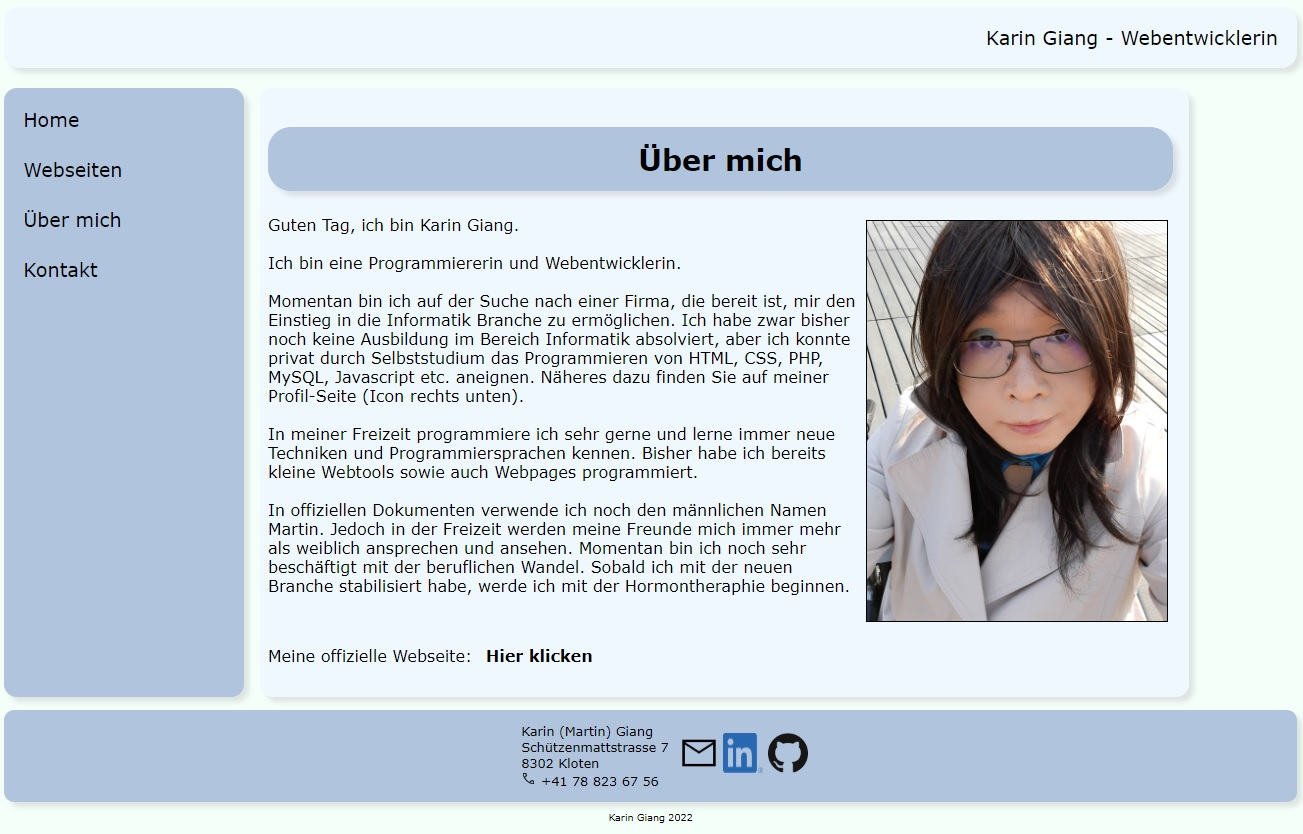
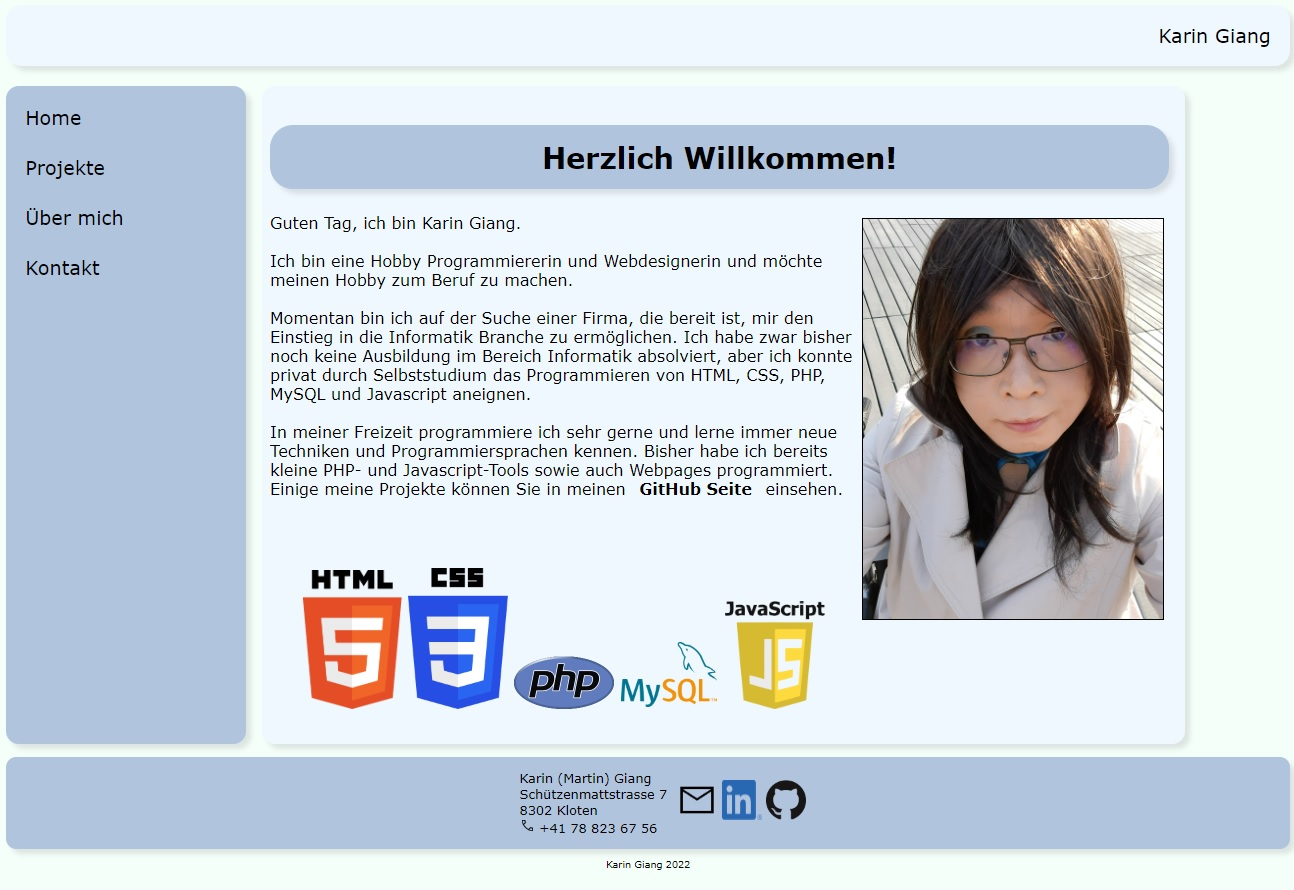
new

diff --git a/css/style.css b/css/style.css
@@ -1,4 +1,8 @@
 @import "navigation.css";
+<<<<<<< HEAD
+@import "websites.css";
+=======
+>>>>>>> 186a99b56ab4f1770793ce823d9b4984131a001e
 @import "contact.css";
 @import "footer.css";
 @import "provisorisch.css";
@@ -21,7 +25,7 @@ body {
 #main {
     position: absolute;
     width: 100%;
-    height: 400%;
+    height: 600%;
     transition: transform 0.5s;
     transform: translate(0, 0);
 }
@@ -54,6 +58,14 @@ body {
 .centerPic {
     text-align: center;
 }
+<<<<<<< HEAD
+.classPic {
+    width: 300px;
+    margin: 1em;
+}
+
+@media (min-width: 640px){
+=======
 
 .classPic {
     width: 300px;
@@ -62,6 +74,7 @@ body {
 }
 
 @media (min-width: 640px) {
+>>>>>>> 186a99b56ab4f1770793ce823d9b4984131a001e
     .classPic {
         float: right;
     }

diff --git a/css/websites.css b/css/websites.css
@@ -1,0 +1,39 @@
+#websitesContents {
+    margin: 1em;
+    display: flex;
+    flex-wrap: wrap;
+    justify-content: center;
+}
+
+.websitesPic {
+    width: 300px;
+    transition: transform 0.5s;
+    box-shadow: 5px 5px 5px rgba(0, 0, 0, 0.1);
+    margin: 1em;
+}
+
+.websitesPic:hover {
+    transform: scale(1.2);
+}
+
+#websitesLogo {
+    width: 20px;
+    height: 20px;
+    transition: transform 0.5s;    
+}
+
+#websitesLogo:hover {
+    transform: scale(1.2);
+}
+
+@media (min-width: 920px){
+    #websitesContents {
+        width: 720px;
+    }
+}
+
+@media (min-width: 1320px){
+    #websitesContents {
+        width: 1020px;
+    }
+}

diff --git a/css/navigation.css b/css/navigation.css
@@ -1,4 +1,4 @@
-#navigation {
+#idNavigation {
     position: sticky;
     top: 0;
     background-color: lightpink;
@@ -8,8 +8,21 @@
     transform: translate(0, 0);
 }
 
+<<<<<<< HEAD
+}
+
+#navigation {
+    display: flex;
+    justify-content: space-between;
+    align-items: center;
+}
+
+.classMenu {
+    display: inline-block;
+=======
 .menuButton {
     display: inline;
     margin: 0.3em;
     padding: 0.3em;
+>>>>>>> 186a99b56ab4f1770793ce823d9b4984131a001e
 }

diff --git a/css/contact.css b/css/contact.css
@@ -6,10 +6,19 @@
 .contactBigIcons {
     width: 60px;
     height: 60px;
+<<<<<<< HEAD
+    margin: 0.3em;
+    transition: transform 0.5s;
+=======
     transition: transform 0.5s;
     margin: 0.3em;
+>>>>>>> 186a99b56ab4f1770793ce823d9b4984131a001e
 }
 
 .contactBigIcons:hover {
     transform: scale(1.2);
+<<<<<<< HEAD
 }
+=======
+}
+>>>>>>> 186a99b56ab4f1770793ce823d9b4984131a001e

diff --git a/old/w2/about.php b/old/w2/about.php
@@ -1,0 +1,24 @@
+<div class="centerPage">
+    <div class="innerPage">
+        <h2>Über mich</h2>
+        <div class="centerPic"><img src="img/karin2.jpg" class="classPic" alt="Karin Giang" title="Karin Giang"></img></div>
+        <p>
+            Guten Tag, ich bin Karin Giang.
+            <br><br>
+            Ich bin eine Programmiererin und Webentwicklerin.
+            <br><br>
+            Momentan bin ich auf der Suche nach einer Firma, die bereit ist, 
+            mir den Einstieg in die Informatik Branche zu ermöglichen.
+            Ich habe zwar bisher noch keine Ausbildung im Bereich Informatik absolviert, 
+            aber ich konnte privat durch Selbststudium das Programmieren von HTML, CSS, PHP, MySQL, Javascript etc. aneignen.
+            Näheres dazu finden Sie auf meiner Profil-Seite (Icon rechts unten).
+            <br><br>
+            In meiner Freizeit programmiere ich sehr gerne und lerne immer neue Techniken und Programmiersprachen kennen.
+            Bisher habe ich bereits kleine Webtools sowie auch Webpages programmiert.    
+            <br><br>
+            In offiziellen Dokumenten verwende ich noch den männlichen Namen Martin.
+            Jedoch in der Freizeit werden meine Freunde mich immer mehr als weiblich ansprechen und ansehen.
+            Momentan bin ich noch sehr beschäftigt mit der beruflichen Wandel. Sobald ich mit der neuen Beruf stabilisiert habe, werde ich mit der Hormontheraphie beginnen.</p>
+        <p>Meine offizielle Webseite: <span id="officalHomepage"><a href="http://www.karingiang.ch" target="_blank">Hier klicken</span></a></p>
+    </div>
+</div>

diff --git a/old/w2/websites.php b/old/w2/websites.php
@@ -5,19 +5,10 @@
         Am Liebsten programmiere ich Webseiten.<br>
         Es ist auch mein Hobby, immer wieder neue Ideen für Webseiten zu entwickeln und diese auf dem Bildschirm zu bringen.<br>
         Alle Codes von meiner Webseiten Vorschlägen sind in meiner <a href="https://github.com/Carranya"><img src="img/icons/github.png" id="websitesLogo"></img></a>-Seite</b> einsehbar.</p>
-<<<<<<< HEAD
-        <div class="centerPage">
-            <div id="websitesContents">
-                <a href="projects/homepage_v1/index.php" target="_blank"><img src="img/websites/homepage_v1.jpg" class="websitesPic"></a>
-                <a href="projects/website_proposal_1/index.php" target="_blank"><img src="img/websites/website_proposal_1.jpg" class="websitesPic"></a>
-                <a href="projects/website_proposal_3/index.php" target="_blank"><img src="img/websites/website_proposal_3.jpg" class="websitesPic"></a>
-            </div>
-=======
         <div class="websitesContent">
             <a href="projects/homepage_v1/index.php" target="_blank"><img src="img/websites/homepage_v1.jpg" class="websitesPic"></a>
             <a href="projects/website_proposal_1/index.php" target="_blank"><img src="img/websites/website_proposal_1.jpg" class="websitesPic"></a>
             <a href="projects/website_proposal_3/index.php" target="_blank"><img src="img/websites/website_proposal_3.jpg" class="websitesPic"></a>
->>>>>>> 186a99b56ab4f1770793ce823d9b4984131a001e
         </div>
     </div>
 </div>

diff --git a/old/w2/contact.php b/old/w2/contact.php
@@ -1,0 +1,20 @@
+<div class="centerPage">
+    <div class="innerPage">
+        <h2>Kontakt</h2>
+        <div class="centerPic"><img src="img/karin.jpg" class="classPic" alt="Karin Giang" title="Karin Giang"></img></div>
+    
+        <p><b>Adresse:</b><br>
+        Karin (Martin) Giang<br>
+        Schützenmattstrasse 7<br>
+        8302 Kloten<br></p>
+        <p><b>Kontaktinformationen:</b><br>
+        <img src="img/icons/phone.png" class="contactSmallIcons">: 078 / 823 67 56<br>
+        <img src="img/icons/mail.png" class="contactSmallIcons">: <u><a href="mailto:m.giang82@gmail.com">m.giang82@gmail.com</a></u><br><br>
+        <a href="https://www.linkedin.com/in/karin-giang-0a6072247" target="_blank"><img src="img/icons/linkedin.png" class="contactBigIcons"></a>
+        <a href="https://github.com/Carranya" target="_blank"><img src="img/icons/github.png" class="contactBigIcons"></a>
+        <p><b>Sonstige Informationen:</b><br>
+        Geburtsdatum:. 15. Februar 1982<br>
+        Zivilstand: verheiratet<br>
+        Nationalität: Schweiz / Heimat: Wängi TG</p>
+    </div>
+</div>

diff --git a/old/w2/home.php b/old/w2/home.php
@@ -1,0 +1,14 @@
+<div class="centerPage">
+    <div class="innerPage">
+        <h1>Website Proposal 2</h1>
+        <h2>Herzlich Willkommen</h2>
+        <p>
+        Diese Webseite dient als Vorschlag für ein Projekt.<br>
+        Es ist schlicht aufgebaut, aber die Menü-Buttons sowie die Navigationsbar sind mit Javascript gesteuert.<br><br>
+
+        Ursprünglich wollte die diese Seite mit Slideeffekt ausstatten.<br>
+        Stattdessen habe ich entschieden, etwas mehr Fancy einzubauen.
+        </p>
+        <p>Meine offizielle Webseite: <span id="officalHomepage"><a href="http://www.karingiang.ch" target="_blank">Hier klicken</span></a></p>
+    </div>
+</div>

diff --git a/index.php b/index.php
@@ -10,11 +10,14 @@
 </head>
 <body>
     <div id="main">
+<<<<<<< HEAD
+        <div id="idNavigation"><?php include "pages/navigation.php"; ?></div>        
+=======
         <div id="navigation"><?php include "pages/menu.php"; ?></div>        
+>>>>>>> 186a99b56ab4f1770793ce823d9b4984131a001e
         <div id="idHome" class="pageContent"><?php include "pages/home.php"; ?></div>
         <div id="idAbout" class="pageContent"><?php include "pages/about.php"; ?></div>
         <div id="idContact" class="pageContent"><?php include "pages/contact.php"; ?></div>
-        <div id="footer">foot</div>
     </div>
 </body>
 </html>

diff --git a/pages/navigation.php b/pages/navigation.php
@@ -1,0 +1,13 @@
+<div id="navigation">
+    <div>
+        <ul>
+            <div id="buttonHome" class="classMenu">Home</div>
+            <div id="buttonWebsites" class="classMenu">Webseiten</div>
+            <div id="buttonAbout" class="classMenu">Über mich</div>
+            <div id="buttonContact" class="classMenu">Kontakt</div>
+        </ul>
+    </div>
+    <div id="naviName">
+        Karin Giang - Webentwicklerin
+    </div>
+</div>
